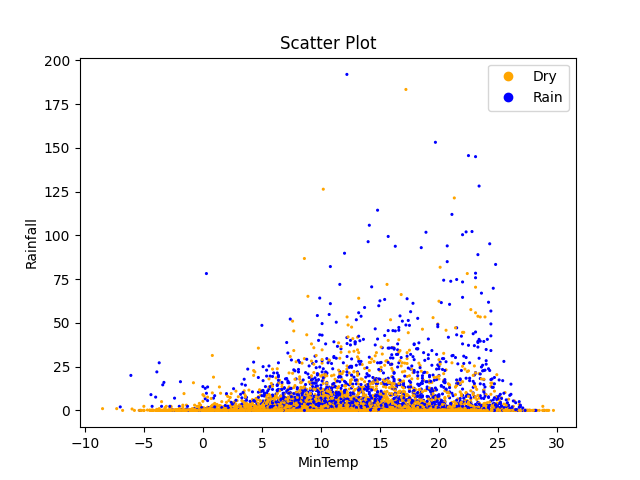
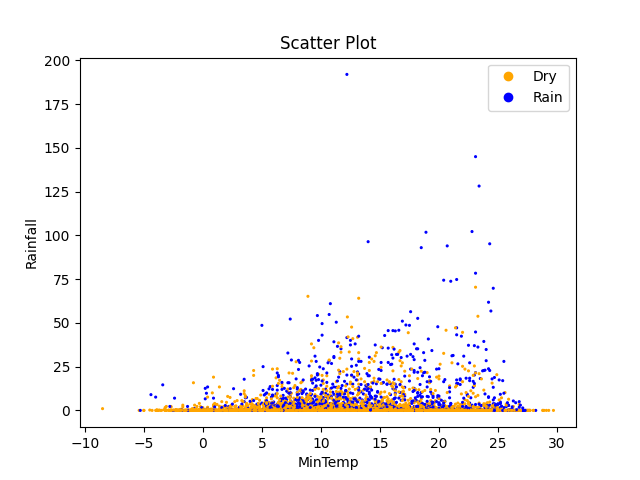
Refactor numeric data type selection

diff --git a/src/main.py b/src/main.py
@@ -93,9 +93,6 @@ def eda(data: pd.DataFrame, writer: Writer) -> None:
     :param data: Data to analyze.
     :param writer: where to write outputs.
     """
-    numeric_types = ["int16", "int32", "int64", "float16", "float32", "float64"]
-
-    data = data.select_dtypes(include=numeric_types)
     numeric_columns: list[str] = list(data.columns)
     numeric_columns.remove("RainTomorrow")
     columns_count = len(numeric_columns)
@@ -137,10 +134,6 @@ def eda(data: pd.DataFrame, writer: Writer) -> None:
 
 
 def outlier_detection(data: pd.DataFrame, writer: Writer) -> None:
-    numeric_types = ["int16", "int32", "int64", "float16", "float32", "float64"]
-
-    data = data.select_dtypes(include=numeric_types)
-
     lof = 20
     bandwidth = 0.8
     outliers = OutlierDetection(lof, bandwidth, data, writer)
@@ -154,10 +147,7 @@ def outlier_detection(data: pd.DataFrame, writer: Writer) -> None:
 
 
 def clustering(data: pd.DataFrame, writer: Writer) -> None:
-    numeric_types = ["int16", "int32", "int64", "float16", "float32", "float64"]
-
-    numerics = data.select_dtypes(include=numeric_types)
-    numerics = normalize(numerics)
+    numerics = normalize(data)
 
     kmeans = KMeans(n_clusters=2)
     optics = OPTICS()
@@ -191,10 +181,7 @@ def feature_selection(
 
     :return: (RFE DataFrame, Lasso DataFrame, Mutual Info DataFrame)
     """
-    numeric_types = ["int16", "int32", "int64", "float16", "float32", "float64"]
-
     data = data.copy(deep=True)
-    data = data.select_dtypes(include=numeric_types)
     rain_tomorrow = data["RainTomorrow"]
     data = data.drop(columns=["RainTomorrow"])
     data = normalize(data)
@@ -284,10 +271,7 @@ def main() -> None:
     writer: Writer = Writer(verbose, None)
     data = preprocess(path, data_reduction, writer)
 
-    numeric_types = ["int16", "int32", "int64", "float16", "float32", "float64"]
-    numerics = data.select_dtypes(include=numeric_types)
-
-    datasets = {"all": numerics}
+    datasets = {"all": data}
 
     if run_exploratory_data_analysis:
         eda(data, writer)
@@ -297,9 +281,9 @@ def main() -> None:
         outlier_detection(data, writer)
     if run_feature_selection:
         rfe, lasso, mutual = feature_selection(data, writer)
-        datasets["rfe"] = numerics[rfe.columns]
-        datasets["lasso"] = numerics[lasso.columns]
-        datasets["mutual"] = numerics[mutual.columns]
+        datasets["rfe"] = data[rfe.columns]
+        datasets["lasso"] = data[lasso.columns]
+        datasets["mutual"] = data[mutual.columns]
 
     if run_classification:
         classification(datasets, writer)

diff --git a/src/preprocessing.py b/src/preprocessing.py
@@ -18,7 +18,7 @@ def preprocess(path: str, data_reduction: float, writer: Writer) -> pd.DataFrame
     frac = 1 - 1 / data_reduction
     df = df.drop(df.sample(frac=frac, random_state=1).index)
 
-    int_dtypes = [
+    numeric_types = [
         np.int8,
         np.int16,
         np.int32,
@@ -34,7 +34,7 @@ def preprocess(path: str, data_reduction: float, writer: Writer) -> pd.DataFrame
 
     # impute remaining NA values with mean. reference https://saturncloud.io/blog/how-to-replace-nan-values-with-the-average-of-columns-in-pandas-dataframe/
     for col in df.columns:
-        if df[col].dtype in int_dtypes:  # numerical, impute with mean
+        if df[col].dtype in numeric_types:  # numerical, impute with mean
             mean = df[col].mean()
             df[col] = df[col].fillna(mean)
 
@@ -57,5 +57,5 @@ def preprocess(path: str, data_reduction: float, writer: Writer) -> pd.DataFrame
     df["Month"] = pd.DatetimeIndex(df["Date"]).month
 
     # Remove redundant columns
-    df = df.drop(columns=["Location", "Date"])
+    df = df.select_dtypes(numeric_types)
     return df
